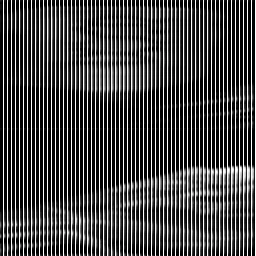
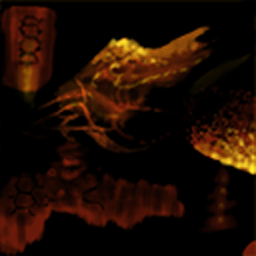
Teostra's effect layers: the ROM's texels, and lit by its own rage machine
The stripes were the textures: em027_00_eft1/2/3_nomip are MT format 7 and the pool still held the
striped DDS decode staged before the format-7 fix (keyed by the DDS md5, never replaced). Re-saved from
the ROM's block-linear texels, lossless and exact.

The layers lit at rest because nothing modelled when Teostra shows them. uEm027_00 caches its materials
1..3 (0xe10444) and walks a stage machine over them (0xe1a604, vtable +0x374): Effect_Start in slot 1 on
rage, Effect_Loop once it has run, Effect_End on calm, holding its last frame. ROM_STAGE_CLIPS runs that
machine per root on its own clock (rage read only in stages 0 and 2, as the ROM reads it); the picker
answers those three materials from it alone, and they count as enrage materials, so Teostra now offers
the Enraged control.

diff --git a/docs/render/monster.js b/docs/render/monster.js
@@ -1766,6 +1766,66 @@ export function setClipFor(monId, groups){
   if (!t || !Array.isArray(groups)) return undefined;
   return groups[t.set] ? t.on : t.off;
 }
+// A MONSTER'S OWN STAGE MACHINE OVER ITS EFFECT LAYERS, run here the way the ROM runs it, where a
+// picker over "the state and when it last changed" cannot say what the game does.
+//
+// TEOSTRA (uEm027_00). At spawn it caches the materials numbered 1..3 (`material+0x18 >> 22`, 0xe10444)
+// -- XfBAN_W_0__m01_effect01, XfBAN_W_0__m02_effect02, XfB__m03_Bombmode -- into [enemy+0xcac0] +0x14,
+// +0x18 and +0x1c, and clears their slots (0xb09a3c): all three sit on their authored values, which draw
+// nothing (fTransparency 0 on the two Alpha layers, $Globals constant alpha 0 on Bombmode). Its virtual
+// 0xe1a604 (vtable +0x374) then walks a stage byte, [enemy+0xcac0]+0x20, putting one clip into SLOT 1 of
+// all three and zeroing that slot's time (0xe1012c, the names at 0x17b6a44):
+//
+//     stage 0   isEnraged (0x81670)                          -> Effect_Start, stage 1
+//     stage 1   slot 1's time reaches that clip's frames      -> Effect_Loop,  stage 2   (0xe102c4)
+//     stage 2   no longer enraged                            -> Effect_End,   stage 3
+//     stage 3   slot 1's time reaches that clip's frames      -> stage 0, Effect_End held on its last frame
+//
+// Rage is read only in stages 0 and 2, so a toggle during either one-second transition waits for it to
+// finish -- which is why this keeps its own stage and clock instead of reading tState.
+// Raven, 2026-09-13, over a screenshot of the layers striped and lit at rest: "The stripped areas are
+// effects that are not modeled", then "Make both fixes for Teostra".
+export const ROM_STAGE_CLIPS = {
+  em027_00: { mats: ['XfBAN_W_0__m01_effect01', 'XfBAN_W_0__m02_effect02', 'XfB__m03_Bombmode'],
+              clips: ['Effect_Start', 'Effect_Loop', 'Effect_End'] },
+};
+// One step of the machine for this root: `{ mats, clip, t0 }` -- the clip in slot 1 (null until the first
+// rage, as the spawn clear leaves it) and the wall second its time was zeroed -- or null where the monster
+// has no table. It advances only when the clock moves forward: the review shot and the fallback console
+// toggle call the stepper on clocks of their own, and those must not move the game's stage -- they are
+// shown the slot as it stood at the machine's last step, its origin moved onto their clock.
+function stepStageMachine(root, tSec, state, monId){
+  const tbl = monId && ROM_STAGE_CLIPS[monId];
+  if (!tbl || !root || !root.userData) return null;
+  let s = root.userData.romStage;
+  if (!s || s.monId !== monId){
+    s = root.userData.romStage = { monId, mats: tbl.mats, stage: 0, clip: null, t0: 0, tLast: -Infinity, frames: {} };
+    // each clip's frame count, off the first cached material carrying it (0xe102c4 tries +0x14, +0x18, +0x1c)
+    for (const nm of tbl.clips){
+      for (const mat of tbl.mats){
+        let f = 0;
+        root.traverse(o => {
+          for (const m of matsOfMesh(o)){
+            if (f || !m || m.name !== mat) continue;
+            const c = ((m.userData && m.userData.rom && m.userData.rom.anim) || []).find(x => sameClip(x.name, nm));
+            if (c) f = c.frames;
+          }
+        });
+        if (f){ s.frames[nm] = f; break; }
+      }
+    }
+  }
+  if (!(tSec >= s.tLast)) return { mats: s.mats, clip: s.clip, t0: tSec - (s.tLast - s.t0) };
+  s.tLast = tSec;
+  const ran = () => (tSec - s.t0) * MAT_FPS >= (s.frames[s.clip] || 0);
+  const set = (i, stage) => { s.clip = tbl.clips[i]; s.t0 = tSec; s.stage = stage; };
+  const enraged = state === 'enraged';
+  if (s.stage === 0){ if (enraged) set(0, 1); }
+  else if (s.stage === 1){ if (ran()) set(1, 2); }
+  else if (s.stage === 2){ if (!enraged) set(2, 3); }
+  else if (ran()) s.stage = 0;
+  return s;
+}
 // The clip a monster's LEVEL rung names, or undefined where no table says (the caller then falls back
 // to the Rage ladder). A rung past the table's end takes its last entry.
 export function levelClipFor(monId, level){
@@ -1829,8 +1889,14 @@ export function rageLadderParts(root){
   });
   return [...out];
 }
-// Materials that carry an enraged clip -- the layers the game lights when a monster rages.
-export function enrageMaterials(root){ return materialsWithClip(root, ENRAGE_CLIPS); }
+// Materials that carry an enraged clip -- the layers the game lights when a monster rages -- and the ones
+// a monster's own stage machine lights on rage (ROM_STAGE_CLIPS), whose clips carry no enrage name.
+export function enrageMaterials(root){
+  const out = materialsWithClip(root, ENRAGE_CLIPS);
+  const tbl = root && root.userData && ROM_STAGE_CLIPS[root.userData.monId];
+  if (tbl) root.traverse(o => { for (const m of matsOfMesh(o)) if (m && tbl.mats.indexOf(m.name) >= 0) out.add(m.name); });
+  return out;
+}
 // Materials that carry a CHARGE clip -- Khezu's Taiden family. Gates the Charged checkbox, which
 // is offered only on monsters that have somewhere to put it.
 export function chargeMaterials(root){ return materialsWithClip(root, CHARGE_CLIPS); }
@@ -1860,7 +1926,7 @@ const stateNames = (st, monId) => {
   const t = STATE_NAMES[st];
   return t && (!t.only || t.only.includes(monId)) ? t : null;
 };
-function clipPicker(state, monId, tState, prev, levelClip){
+function clipPicker(state, monId, tState, prev, levelClip, stage){
   const pin = (monId && ROM_SPAWN_CLIP[monId]) || null;
   const timed = typeof tState === 'number';
   const states = STATES.filter(st => stateNames(st, monId));
@@ -1871,6 +1937,14 @@ function clipPicker(state, monId, tState, prev, levelClip){
     if (ban) clips = clips.map(c =>
       (c && typeof c.name === 'string' && ban.has(c.name.toLowerCase())) ? { ...c, name: null } : c);
     let ci = -1;
+    // A MATERIAL THE MONSTER'S OWN STAGE MACHINE DRIVES answers from that machine alone -- see
+    // ROM_STAGE_CLIPS: its one clip in slot 1 on the machine's clock, or before the first rage nothing,
+    // the material's authored values.
+    if (stage && rom && stage.mats.indexOf(rom.name) >= 0){
+      if (!stage.clip) return -1;
+      const i = clips.findIndex(c => sameClip(c.name, stage.clip));
+      return i >= 0 ? [[i, stage.t0]] : -1;
+    }
     // A SPAWN-PINNED material ignores the rage state entirely -- see ROM_SPAWN_CLIP.
     if (pin && rom.name && pin[rom.name])
       ci = clips.findIndex(c => sameClip(c.name, pin[rom.name]));
@@ -2087,7 +2161,7 @@ function clipPicker(state, monId, tState, prev, levelClip){
 }
 
 export function stepMatAnim(root, tSec, state, monId, tState, prev, levelClip){
-  const pick = clipPicker(state, monId, tState, prev, levelClip);
+  const pick = clipPicker(state, monId, tState, prev, levelClip, stepStageMachine(root, tSec, state, monId));
   // ONE evaluator for both paths. A ROM-core material is a stock three.js material -- the technique
   // decides which class, not the blend state -- so the shared evaluator's writes land exactly as
   // they always have. fEmissionColor now reaches the 47 lit-technique additive materials that used
